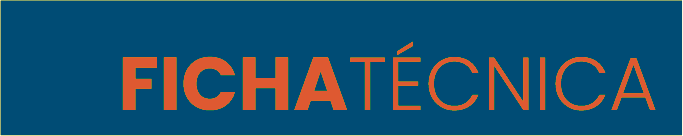
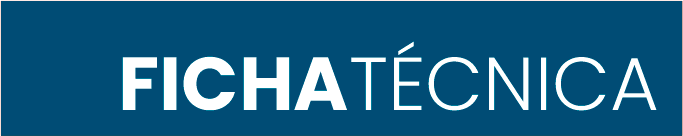
correcoes

Changed region(s): [[0.1537, 0.2941, 0.9839, 0.8235], [0.0, 0.9706, 1.0, 1.0], [0.0, 0.0, 1.0, 0.0294]]

diff --git a/tela-60.html b/tela-60.html
@@ -2,6 +2,7 @@
     p {
         color: #004D73;
         font-size: 9px;
+        color: white;
     }
 </style>
 <div class="coluna-esquerda altura-1_1 largura-1_2" style="background-color: #FF592A; width: 450px;">
